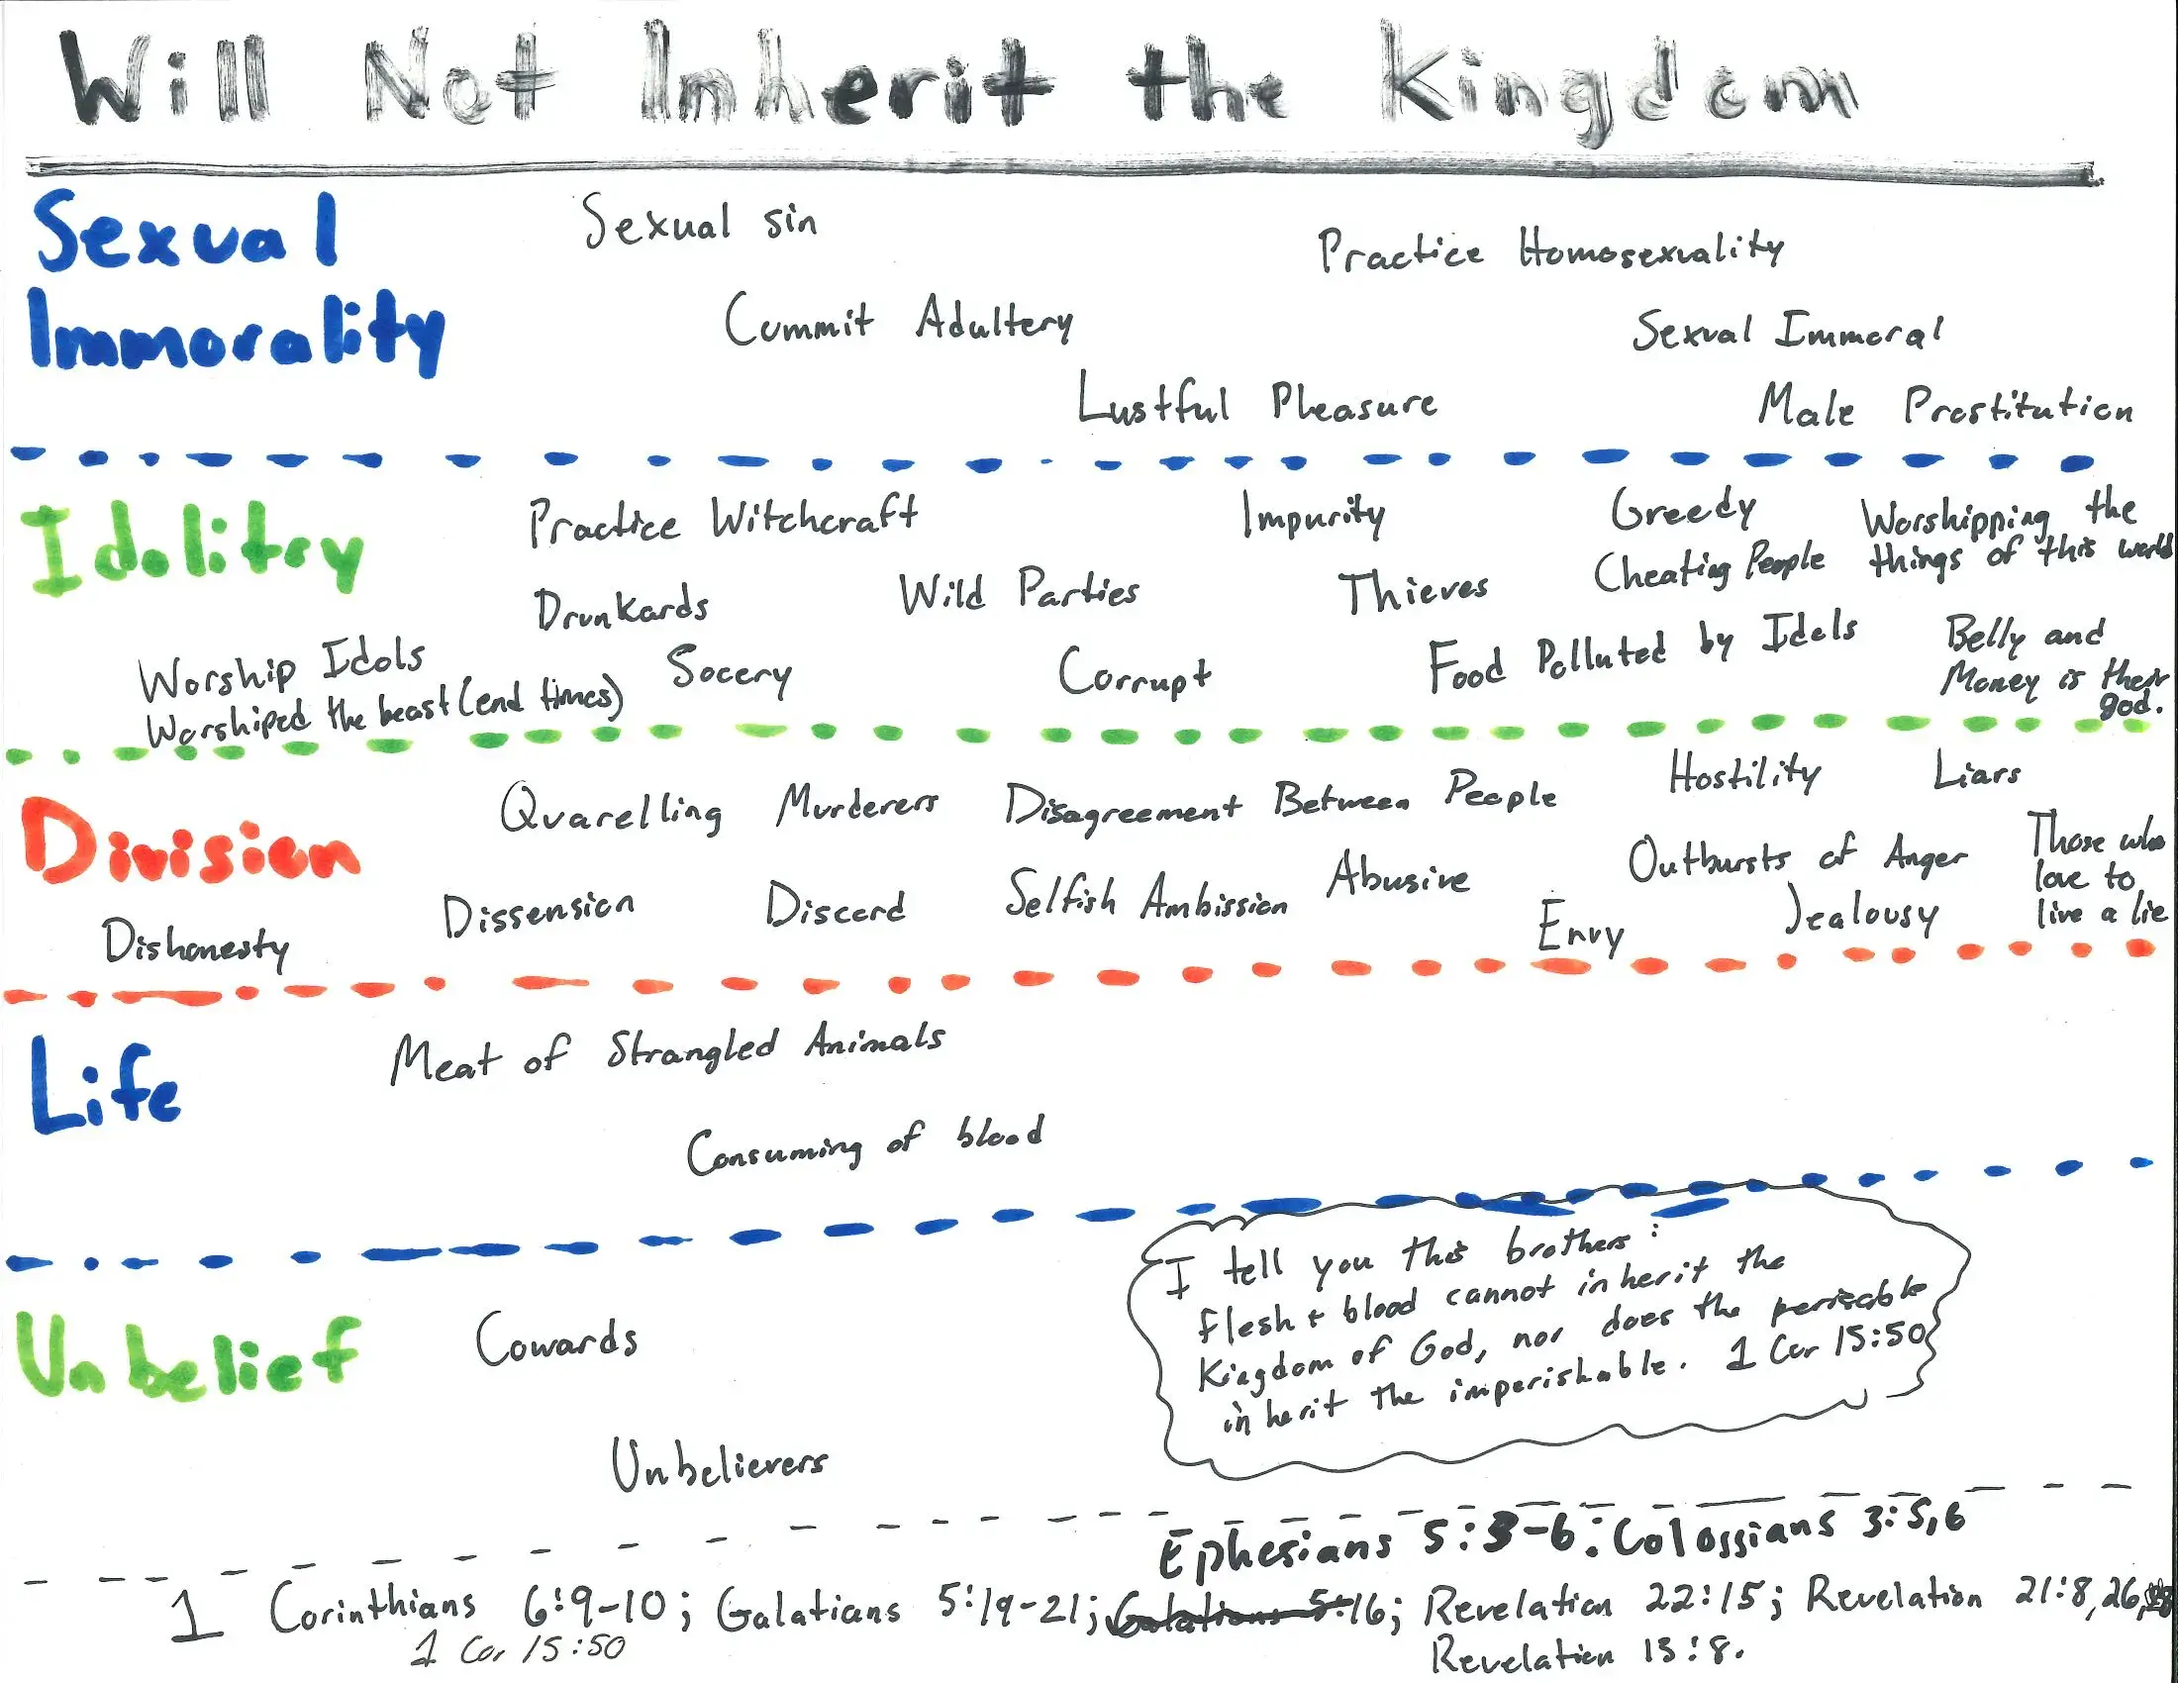
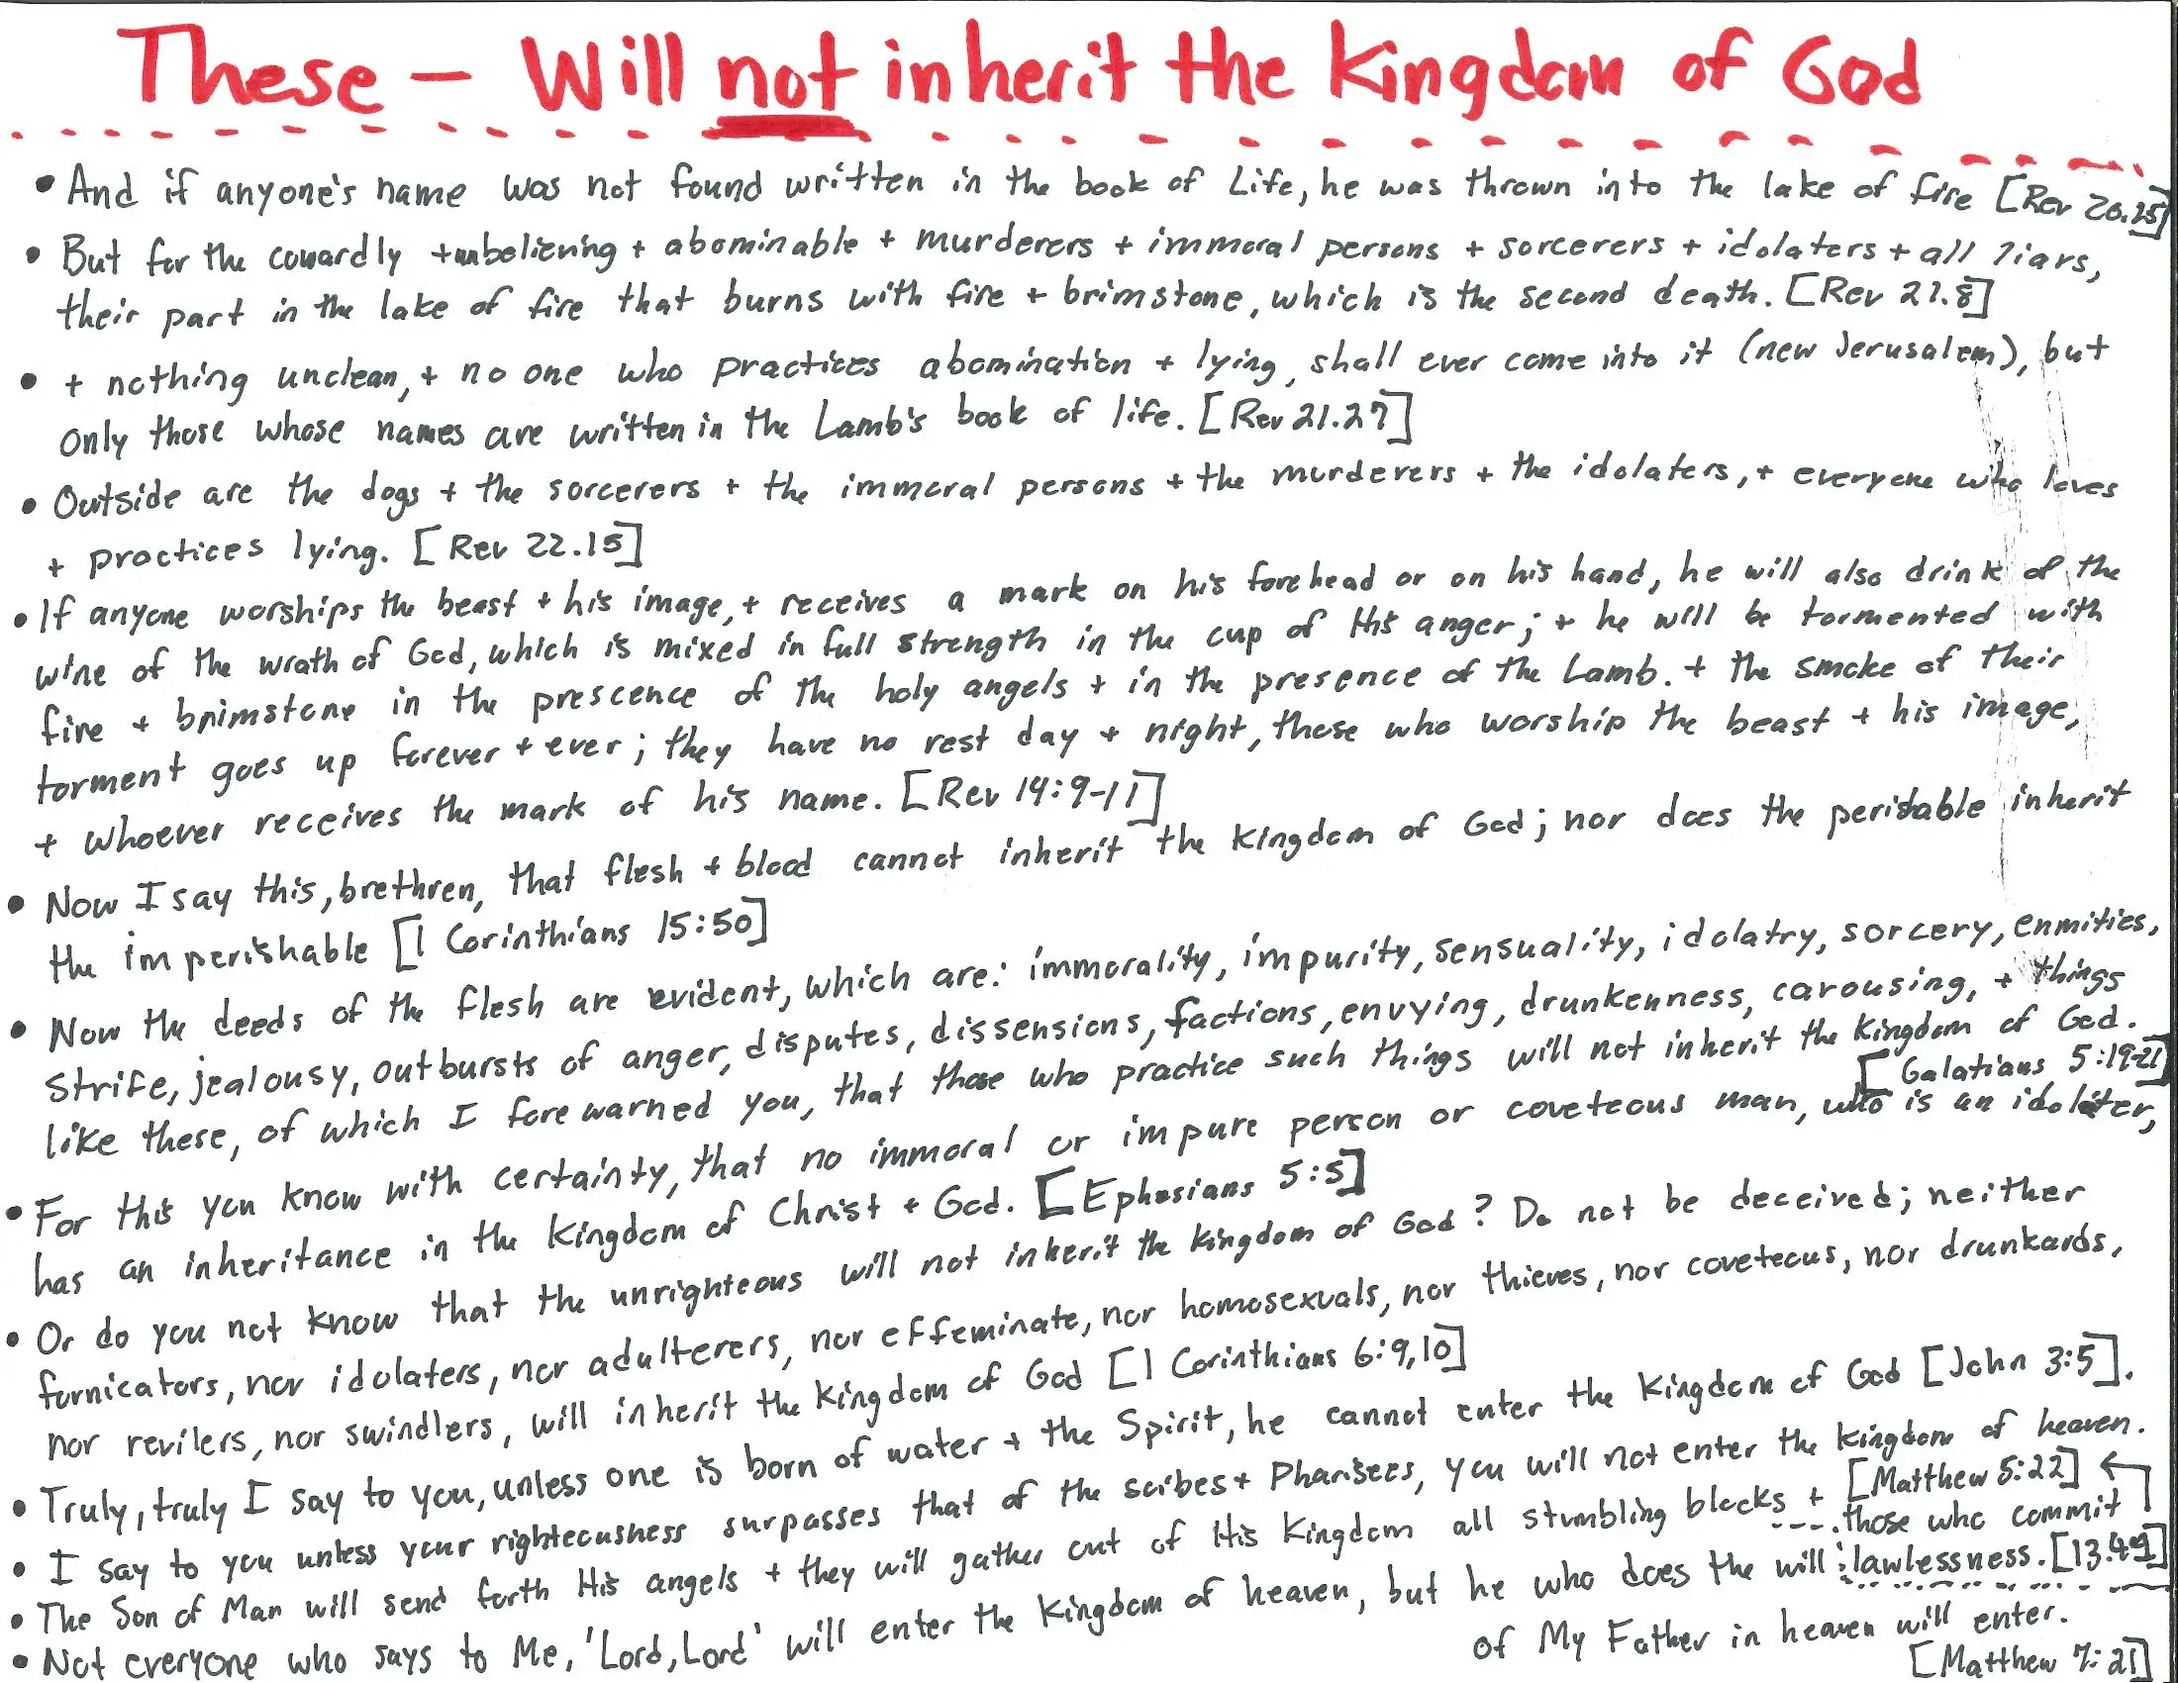
add new pages..

Changed region(s): [[0.0, 0.0, 1.0, 1.0]]

diff --git a/apps/blog/src/app/draw-page/draw-page.component.ts b/apps/blog/src/app/draw-page/draw-page.component.ts
@@ -34,10 +34,10 @@ export class DrawPageComponent implements OnInit {
     }
   }
 
-  hideLoader(id: number) {
-    const i = this.images.find((image) => image.id === id);
-    i.isFinishedLoading = true;
-  }
+  // hideLoader(id: number) {
+  //   const i = this.images.find((image) => image.id === id);
+  //   i.isFinishedLoading = true;
+  // }
 
   ngOnInit(): void {
     this.images.push({
@@ -70,11 +70,11 @@ export class DrawPageComponent implements OnInit {
     this.images.push({
       id: 2,
       name: "Fear of the Lord",
-      description: ``,
+      description: `This is wisdom. To perfect wisdom: continue to fear the LORD. In God's wisdom, He proclaims this is the wisest thing for us to do. Ruminate, you clean ones, on the fear of the LORD. He is, was, and is yet to come. When He comes, He will render to each one according to his works and He judges impartially. The Word of the LORD is life. He is True. All who believe in Him set their seal to this: God is true. Let every man be a liar and God be true.`,
       footer:
         "The fear of the Lord produces humility and a righteous hatred...",
       fileName: "fearLord.webp",
-
+      video: "O--SQdICRVk",
       originUrl:
         "https://res.cloudinary.com/dffihsa2y/image/upload/v1711590197/teach/fearLord_znqj9t.webp",
     });
@@ -125,7 +125,6 @@ export class DrawPageComponent implements OnInit {
         His sacrifice is sufficient for us in order to draw us near to God.`,
       footer: "Elaborating John 16: 8-11...",
       fileName: "john16.webp",
-
       originUrl:
         "https://res.cloudinary.com/dffihsa2y/image/upload/v1711590220/teach/john16_bgxtfk.webp",
     });
@@ -155,7 +154,7 @@ export class DrawPageComponent implements OnInit {
       footer:
         "Death must be worked out in the body and soul of the flesh. Many know about the body of the flesh. What about the mind of flesh? ...",
       fileName: "alterofGod.webp",
-
+      video: "iITISwdEGYM",
       originUrl:
         "https://res.cloudinary.com/dffihsa2y/image/upload/v1711590174/teach/armorofGod_h3blcr.webp",
     });
@@ -517,6 +516,94 @@ export class DrawPageComponent implements OnInit {
 
       originUrl:
         "https://res.cloudinary.com/dffihsa2y/image/upload/v1711590277/teach/thievesbandits_ybigmc.webp",
+    });
+
+    this.images.push({
+      id: 37,
+      name: "Detests vs Delights",
+      description: ``,
+      footer: "What the Most High detests and what is a delight to Him...",
+      fileName: "detestvsdelight.webp",
+
+      originUrl:
+        "https://res.cloudinary.com/dffihsa2y/image/upload/v1711735328/teach/detestvsdelight_h4xby0.webp",
+    });
+
+    this.images.push({
+      id: 38,
+      name: "Grace and Truth",
+      description: ``,
+      footer:
+        "The Law revealed the coinscience through the written code, grace & truth revealed in Christ...",
+      fileName: "grace&truth.webp",
+
+      originUrl:
+        "https://res.cloudinary.com/dffihsa2y/image/upload/v1711735327/teach/grace_truth_loj0u0.webp",
+    });
+
+    this.images.push({
+      id: 39,
+      name: "The Father and the Son and the Holy Spirit",
+      description: ``,
+      footer:
+        "Revelation about the Father, Son, and the Spirit.. how we worship one God.",
+      fileName: "theFatherSonSpirit.webp",
+
+      originUrl:
+        "https://res.cloudinary.com/dffihsa2y/image/upload/v1711735327/teach/theFatherSonSpirit_cv11oq.webp",
+    });
+
+    this.images.push({
+      id: 40,
+      name: "The Father and the Son",
+      description: ``,
+      footer: "Scripture gathering of the Father and the Son...",
+      fileName: "theFather&theSon.webp",
+
+      originUrl:
+        "https://res.cloudinary.com/dffihsa2y/image/upload/v1711735329/teach/theFather_theSon_d2ax76.webp",
+    });
+
+    this.images.push({
+      id: 41,
+      name: "Worship the Father in spirit and truth",
+      description: ``,
+      footer:
+        "How the world worships God in the ways He does not desire, but how we're called to worship...",
+      fileName: "TrueWorship.webp",
+
+      originUrl:
+        "https://res.cloudinary.com/dffihsa2y/image/upload/v1711735327/teach/TrueWorship_prs84a.webp",
+    });
+
+    this.images.push({
+      id: 42,
+      name: "Will NOT inherit the Kingdom of God (verses)",
+      description: ``,
+      footer: "It is clear, these will not inherit the Kingdom of heaven...",
+      fileName: "willnotinherit.webp",
+      originUrl:
+        "https://res.cloudinary.com/dffihsa2y/image/upload/v1711735327/teach/willnotinherit_n0mujj.webp",
+    });
+
+    this.images.push({
+      id: 43,
+      name: "Will inherit the Kingdom of God (verses)",
+      description: `Also, unless you become like a little child you will by no means enter into the kingdom of heaven.`,
+      footer: "It is clear, these WILL inherit the Kingdom of heaven...",
+      fileName: "willinheritverses.webp",
+      originUrl:
+        "https://res.cloudinary.com/dffihsa2y/image/upload/v1711735327/teach/willnotinheritverses_vzafs5.webp",
+    });
+
+    this.images.push({
+      id: 44,
+      name: "Will inherit the Kingdom of God (grouping)",
+      description: ``,
+      footer: "It is clear, these WILL inherit the Kingdom of heaven...",
+      fileName: "willinheritbucket.webp",
+      originUrl:
+        "https://res.cloudinary.com/dffihsa2y/image/upload/v1711735327/teach/willinheritbucket_fx9boh.webp",
     });
   }
 }

diff --git a/apps/blog/src/app/draw-page/draw-page.component.html b/apps/blog/src/app/draw-page/draw-page.component.html
@@ -26,19 +26,19 @@
       [photoGallery]="image.originUrl"
       [photoGalleryCaption]="image.description"
     >
-      <mat-spinner
+      <!-- <mat-spinner
         *ngIf="!image.isFinishedLoading"
         class="loading"
-      ></mat-spinner>
+      ></mat-spinner> -->
 
+      <!-- [ngStyle]="{ visibility: !image.isFinishedLoading ? 'hidden' : '' }" -->
       <img
-        [ngStyle]="{ visibility: !image.isFinishedLoading ? 'hidden' : '' }"
         role="presentation"
         style="max-width: 100%; max-height: 100%"
         [src]="image.originUrl"
-        (load)="hideLoader(image.id)"
-        (error)="hideLoader(image.id)"
       />
+      <!-- (load)="hideLoader(image.id)"
+        (error)="hideLoader(image.id)" -->
     </div>
   </mat-grid-tile>
 </mat-grid-list>

diff --git a/apps/blog/src/app/draw-page/draw-page.module.ts b/apps/blog/src/app/draw-page/draw-page.module.ts
@@ -15,8 +15,14 @@ const routes: Routes = [
     path: "drawing",
     component: DrawPageComponent,
   },
-  { path: "draw/:video/:id", component: DrawItemComponent },
-  { path: "draw/:id", component: DrawItemComponent },
+  {
+    path: "draw/:video/:id",
+    component: DrawItemComponent,
+  },
+  {
+    path: "draw/:id",
+    component: DrawItemComponent,
+  },
 ];
 @NgModule({
   declarations: [DrawPageComponent, DrawItemComponent],
